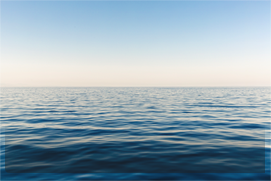
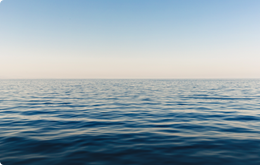
developed till image bar

Changed region(s): [[0.0, 0.4848, 1.0, 1.0]]

diff --git a/index.css b/index.css
@@ -351,7 +351,7 @@
 }
 
 /*********** post and searching style ****************/
-.post-search-container{background-color: rgba(245, 245, 245, 255);padding-top: 31px;height: 2300px;display: flex;
+.post-search-container{background-color: rgba(245, 245, 245, 255);padding-top: 31px;height: 2307px;display: flex;
     justify-content: center;overflow: hidden;
 }
 
@@ -662,11 +662,11 @@
 }
 
 .grid-post-2 .grid-2-comment-like-2{
-    margin-left: 219px;
+    margin-left: 214px;
 }
 
 .grid-2-image-2 .grid-2-comment-like-2{
-    margin-left: 202px;
+    margin-left: 197px;
 }
 
 .grid-post-2 .grid-2-comment-like-2 .comment-icon{
@@ -681,7 +681,7 @@
 }
 
 .grid-post-2 .image-details .span-lifestyle{
-    font-size: 11px;
+    font-size: 11px;letter-spacing: 0.5px;
 }
 
 .grid-post-2-details{
@@ -717,21 +717,29 @@
 
 /* ********More-arrow div********** */
 .more-arrow{
-    display: flex;align-items: center;position: absolute;right: 0px;bottom: -87px;
+    display: flex;align-items: center;float: right;margin-top: 43px;
 }
 
 .more-arrow .more-span{
-    color: #3f51b5;
+    color: #3f51b5;letter-spacing: 0.5px;
 }
 
 .more-arrow .arrow-button{
-    background-color: #fff;border: 0px;border-radius: 50%;padding: 9px;margin-left: 10px;
+    background-color: #fff;border: 0px;border-radius: 50%;margin-left: 8px;padding: 9px 9px 6px 9px;
 }
 
 .more-arrow span{
     color: #3f51b5;
 }
 
+/* ********** Image bar *********** */
+.image-bar{
+    margin-bottom: 200px;display: flex;
+}
+
+.image-bar img{
+    width: 12.5%;
+}
 
 /***** searching  ************/
 .search-filter-container{

diff --git a/index.html b/index.html
@@ -188,6 +188,7 @@
     </div>
   </div>
 
+  <!-- sort blog -->
   <div class="sort-blog-container">
     <div class="center-main-container">
       <div class="sort-blog">
@@ -203,6 +204,7 @@
     </div>
   </div>
 
+  <!-- post-search -->
   <div class="post-search-container">
     <div class="center-main-container">
       <div class="post-container">
@@ -687,13 +689,15 @@
         
         <div class="more-arrow">
           <span class="more-span">More</span>
-          <button class="arrow-button">
+          <button class="arrow-button post">
             <span class="material-icons">
               arrow_forward
               </span>
           </button>
         </div>
       </div>
+
+    
 
       <div class="search-filter-container">
         <div class="search-inside-container">
@@ -905,6 +909,18 @@
       </div>
     </div>
 
+  </div>
+
+  <!-- image bar -->
+  <div class="image-bar">
+    <img src="./images/image-bar-img-1.png" alt="">
+    <img src="./images/image-bar-img-2.png" alt="">
+    <img src="./images/image-bar-img-3.png" alt="">
+    <img src="./images/image-bar-img-4.png" alt="">
+    <img src="./images/image-bar-img-5.png" alt="">
+    <img src="./images/image-bar-img-6.png" alt="">
+    <img src="./images/image-bar-img-7.png" alt="">
+    <img src="./images/image-bar-img-8.png" alt="">
   </div>
   </div>
 </body>
